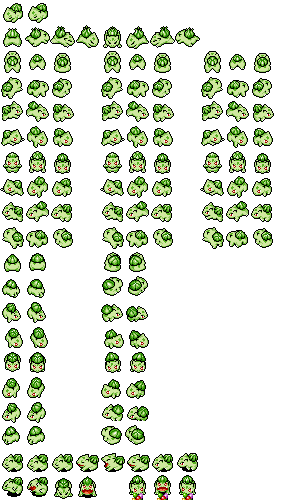
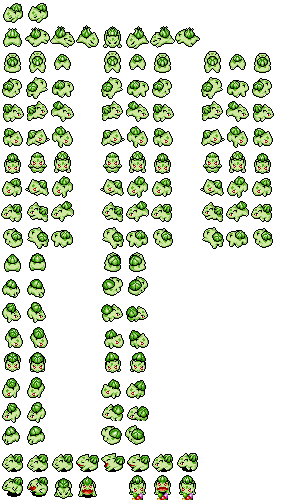
Basic Attack Animation

Changed region(s): [[0.0, 0.09, 0.24, 0.51]]

diff --git a/PMDMMOc/src/com/darkxell/client/state/dungeon/ActionSelectionState.java b/PMDMMOc/src/com/darkxell/client/state/dungeon/ActionSelectionState.java
@@ -7,71 +7,65 @@ import java.awt.Point;
 import java.awt.image.BufferedImage;
 
 import com.darkxell.client.launchable.Launcher;
+import com.darkxell.client.mechanics.animation.TravelAnimation;
 import com.darkxell.client.persistance.DungeonPersistance;
 import com.darkxell.client.resources.images.DungeonHudSpriteset;
 import com.darkxell.client.state.dungeon.DungeonState.DungeonSubState;
-import com.darkxell.client.state.dungeon.PokemonTravelState.Travel;
 import com.darkxell.client.state.menu.dungeon.DungeonMenuState;
 import com.darkxell.client.ui.Keys;
+import com.darkxell.common.move.MoveRegistry;
+import com.darkxell.common.pokemon.DungeonPokemon;
 import com.darkxell.common.util.GameUtil;
 
-public class ActionSelectionState extends DungeonSubState {
+public class ActionSelectionState extends DungeonSubState
+{
 
 	private int rotationCounter = 0;
 
-	public ActionSelectionState(DungeonState parent) {
+	public ActionSelectionState(DungeonState parent)
+	{
 		super(parent);
 	}
 
-	public boolean checkMovement() {
+	public boolean checkMovement()
+	{
 		short direction = -1;
 
-		if (Keys.isPressed(Keys.KEY_UP) && Keys.isPressed(Keys.KEY_RIGHT) && !Keys.isPressed(Keys.KEY_DOWN)
-				&& !Keys.isPressed(Keys.KEY_LEFT))
-			direction = GameUtil.NORTHEAST;
-		else if (Keys.isPressed(Keys.KEY_DOWN) && Keys.isPressed(Keys.KEY_RIGHT) && !Keys.isPressed(Keys.KEY_UP)
-				&& !Keys.isPressed(Keys.KEY_LEFT))
-			direction = GameUtil.SOUTHEAST;
-		else if (Keys.isPressed(Keys.KEY_DOWN) && Keys.isPressed(Keys.KEY_LEFT) && !Keys.isPressed(Keys.KEY_UP)
-				&& !Keys.isPressed(Keys.KEY_RIGHT))
-			direction = GameUtil.SOUTHWEST;
-		else if (Keys.isPressed(Keys.KEY_UP) && Keys.isPressed(Keys.KEY_LEFT) && !Keys.isPressed(Keys.KEY_DOWN)
-				&& !Keys.isPressed(Keys.KEY_RIGHT))
-			direction = GameUtil.NORTHWEST;
+		if (Keys.isPressed(Keys.KEY_UP) && Keys.isPressed(Keys.KEY_RIGHT) && !Keys.isPressed(Keys.KEY_DOWN) && !Keys.isPressed(Keys.KEY_LEFT)) direction = GameUtil.NORTHEAST;
+		else if (Keys.isPressed(Keys.KEY_DOWN) && Keys.isPressed(Keys.KEY_RIGHT) && !Keys.isPressed(Keys.KEY_UP) && !Keys.isPressed(Keys.KEY_LEFT)) direction = GameUtil.SOUTHEAST;
+		else if (Keys.isPressed(Keys.KEY_DOWN) && Keys.isPressed(Keys.KEY_LEFT) && !Keys.isPressed(Keys.KEY_UP) && !Keys.isPressed(Keys.KEY_RIGHT)) direction = GameUtil.SOUTHWEST;
+		else if (Keys.isPressed(Keys.KEY_UP) && Keys.isPressed(Keys.KEY_LEFT) && !Keys.isPressed(Keys.KEY_DOWN) && !Keys.isPressed(Keys.KEY_RIGHT)) direction = GameUtil.NORTHWEST;
 
-		else if (!this.parent.diagonal) {
-			if (Keys.isPressed(Keys.KEY_UP) && !Keys.isPressed(Keys.KEY_LEFT) && !Keys.isPressed(Keys.KEY_DOWN)
-					&& !Keys.isPressed(Keys.KEY_RIGHT))
-				direction = GameUtil.NORTH;
-			else if (Keys.isPressed(Keys.KEY_DOWN) && !Keys.isPressed(Keys.KEY_LEFT) && !Keys.isPressed(Keys.KEY_UP)
-					&& !Keys.isPressed(Keys.KEY_RIGHT))
-				direction = GameUtil.SOUTH;
-			else if (Keys.isPressed(Keys.KEY_LEFT) && !Keys.isPressed(Keys.KEY_UP) && !Keys.isPressed(Keys.KEY_DOWN)
-					&& !Keys.isPressed(Keys.KEY_RIGHT))
-				direction = GameUtil.WEST;
-			else if (Keys.isPressed(Keys.KEY_RIGHT) && !Keys.isPressed(Keys.KEY_LEFT) && !Keys.isPressed(Keys.KEY_DOWN)
-					&& !Keys.isPressed(Keys.KEY_UP))
-				direction = GameUtil.EAST;
+		else if (!this.parent.diagonal)
+		{
+			if (Keys.isPressed(Keys.KEY_UP) && !Keys.isPressed(Keys.KEY_LEFT) && !Keys.isPressed(Keys.KEY_DOWN) && !Keys.isPressed(Keys.KEY_RIGHT)) direction = GameUtil.NORTH;
+			else if (Keys.isPressed(Keys.KEY_DOWN) && !Keys.isPressed(Keys.KEY_LEFT) && !Keys.isPressed(Keys.KEY_UP) && !Keys.isPressed(Keys.KEY_RIGHT)) direction = GameUtil.SOUTH;
+			else if (Keys.isPressed(Keys.KEY_LEFT) && !Keys.isPressed(Keys.KEY_UP) && !Keys.isPressed(Keys.KEY_DOWN) && !Keys.isPressed(Keys.KEY_RIGHT)) direction = GameUtil.WEST;
+			else if (Keys.isPressed(Keys.KEY_RIGHT) && !Keys.isPressed(Keys.KEY_LEFT) && !Keys.isPressed(Keys.KEY_DOWN) && !Keys.isPressed(Keys.KEY_UP)) direction = GameUtil.EAST;
 		}
 
-		if (direction != -1) {
+		if (direction != -1)
+		{
 			DungeonPersistance.player.getDungeonPokemon().setFacing(direction);
-			if (!this.parent.rotating && DungeonPersistance.player.getDungeonPokemon().tryMoveTo(direction)) {
-				this.parent.setSubstate(new PokemonTravelState(this.parent,
-						new Travel(DungeonPersistance.player.getDungeonPokemon(), direction)));
+			if (!this.parent.rotating && DungeonPersistance.player.getDungeonPokemon().tryMoveTo(direction))
+			{
+				this.parent.setSubstate(new PokemonTravelState(this.parent, new DungeonPokemon[]
+				{ DungeonPersistance.player.getDungeonPokemon() }, new TravelAnimation(DungeonPersistance.player.getDungeonPokemon(), direction)));
 				return true;
 			}
 		}
 		return false;
 	}
 
-	private void drawArrow(Graphics2D g, short direction) {
+	private void drawArrow(Graphics2D g, short direction)
+	{
 		Point p = GameUtil.moveTo(0, 0, direction);
 		BufferedImage img = DungeonHudSpriteset.instance.getArrow(direction);
 		int x = this.parent.camera.x + (1 + p.x) * TILE_SIZE / 2 - img.getWidth() / 2 + this.rotationCounter / 3 * p.x;
 		int y = this.parent.camera.y + (1 + p.y) * TILE_SIZE / 2 - img.getHeight() / 2 + this.rotationCounter / 3 * p.y;
 
-		if (p.distance(0, 0) > 1) {
+		if (p.distance(0, 0) > 1)
+		{
 			x -= p.x * TILE_SIZE / 8;
 			y -= p.y * TILE_SIZE / 8;
 		}
@@ -80,37 +74,39 @@ public class ActionSelectionState extends DungeonSubState {
 	}
 
 	@Override
-	public void onKeyPressed(short key) {
-		if (key == Keys.KEY_MENU)
-			Launcher.stateManager.setState(new DungeonMenuState(this.parent));
+	public void onKeyPressed(short key)
+	{
+		if (key == Keys.KEY_MENU) Launcher.stateManager.setState(new DungeonMenuState(this.parent));
+		if (key == Keys.KEY_ATTACK) this.parent.setSubstate(new MoveAnimationState(this.parent, DungeonPersistance.player.getDungeonPokemon(),
+				MoveRegistry.ATTACK));
 	}
 
 	@Override
-	public void onKeyReleased(short key) {
-	}
+	public void onKeyReleased(short key)
+	{}
 
 	@Override
-	public void render(Graphics2D g, int width, int height) {
-		if (this.isMain()) {
-			if (this.parent.diagonal) {
+	public void render(Graphics2D g, int width, int height)
+	{
+		if (this.isMain())
+		{
+			if (this.parent.diagonal)
+			{
 				this.drawArrow(g, GameUtil.NORTHEAST);
 				this.drawArrow(g, GameUtil.SOUTHEAST);
 				this.drawArrow(g, GameUtil.SOUTHWEST);
 				this.drawArrow(g, GameUtil.NORTHWEST);
 			}
-			if (this.parent.rotating)
-				if (!this.parent.diagonal)
-					this.drawArrow(g, DungeonPersistance.player.getDungeonPokemon().facing());
+			if (this.parent.rotating) if (!this.parent.diagonal) this.drawArrow(g, DungeonPersistance.player.getDungeonPokemon().facing());
 		}
 	}
 
 	@Override
-	public void update() {
-		if (this.isMain())
-			this.checkMovement();
+	public void update()
+	{
+		if (this.isMain()) this.checkMovement();
 
 		++this.rotationCounter;
-		if (this.rotationCounter > TILE_SIZE * 2 / 3)
-			this.rotationCounter = 0;
+		if (this.rotationCounter > TILE_SIZE * 2 / 3) this.rotationCounter = 0;
 	}
 }

diff --git a/PMDMMOc/src/com/darkxell/client/mechanics/animation/moves/BasicAttackAnimation.java b/PMDMMOc/src/com/darkxell/client/mechanics/animation/moves/BasicAttackAnimation.java
@@ -1,0 +1,64 @@
+package com.darkxell.client.mechanics.animation.moves;
+
+import java.awt.Graphics2D;
+
+import com.darkxell.client.mechanics.animation.AbstractAnimation;
+import com.darkxell.client.mechanics.animation.AnimationEndListener;
+import com.darkxell.client.mechanics.animation.TravelAnimation;
+import com.darkxell.client.renderers.DungeonPokemonRenderer;
+import com.darkxell.client.resources.images.PokemonSprite;
+import com.darkxell.common.dungeon.floor.Tile;
+import com.darkxell.common.pokemon.DungeonPokemon;
+
+public class BasicAttackAnimation extends AbstractAnimation
+{
+	public static final int TOTAL = 30, CHARGE = TOTAL / 3, MOVEMENT = TOTAL / 6;
+
+	private final Tile location;
+	private PokemonSprite sprite;
+	private TravelAnimation travel;
+	public final DungeonPokemon user;
+
+	public BasicAttackAnimation(DungeonPokemon user, AnimationEndListener listener)
+	{
+		super(TOTAL, listener);
+		this.user = user;
+		this.location = this.user.tile;
+		this.sprite = DungeonPokemonRenderer.instance.getSprite(this.user);
+		this.travel = new TravelAnimation(this.user, this.user.facing());
+	}
+
+	@Override
+	public void onFinish()
+	{
+		super.onFinish();
+		this.location.setPokemon(this.user);
+	}
+
+	@Override
+	public void render(Graphics2D g, int width, int height)
+	{
+		super.render(g, width, height);
+		DungeonPokemonRenderer.instance.draw(g, this.user, this.travel.current().getX(), this.travel.current().getY());
+	}
+
+	@Override
+	public void start()
+	{
+		super.start();
+		this.location.setPokemon(null);
+		this.sprite.setState(PokemonSprite.STATE_ATTACK);
+	}
+
+	@Override
+	public void update()
+	{
+		super.update();
+		float completion = this.tick() * 1f;
+		if (this.tick() >= CHARGE && this.tick() <= CHARGE + MOVEMENT) completion -= CHARGE;
+		else if (this.tick() >= CHARGE * 2 + MOVEMENT && this.tick() <= TOTAL) completion = 30 - completion;
+		else completion = -1;
+
+		if (completion != -1) this.travel.update(completion * 0.75f / MOVEMENT);
+	}
+}

diff --git a/PMDMMOc/src/com/darkxell/client/state/dungeon/MoveAnimationState.java b/PMDMMOc/src/com/darkxell/client/state/dungeon/MoveAnimationState.java
@@ -1,0 +1,65 @@
+package com.darkxell.client.state.dungeon;
+
+import java.awt.Graphics2D;
+
+import com.darkxell.client.mechanics.animation.AbstractAnimation;
+import com.darkxell.client.mechanics.animation.AnimationEndListener;
+import com.darkxell.client.mechanics.animation.MoveAnimations;
+import com.darkxell.client.persistance.DungeonPersistance;
+import com.darkxell.client.state.dungeon.DungeonState.DungeonSubState;
+import com.darkxell.common.event.MoveUseEvent;
+import com.darkxell.common.move.Move;
+import com.darkxell.common.move.MoveRegistry;
+import com.darkxell.common.pokemon.DungeonPokemon;
+import com.darkxell.common.util.Message;
+
+public class MoveAnimationState extends DungeonSubState implements AnimationEndListener
+{
+
+	public final AbstractAnimation animation;
+	public final Move move;
+	public final DungeonPokemon user;
+
+	public MoveAnimationState(DungeonState parent, DungeonPokemon user, Move move)
+	{
+		super(parent);
+		this.move = move;
+		this.user = user;
+		this.animation = MoveAnimations.createAnimation(this, user, move);
+	}
+
+	@Override
+	public void onAnimationEnd(AbstractAnimation animation)
+	{
+		MoveUseEvent e = this.move.use(this.user, DungeonPersistance.floor);
+		if (this.move != MoveRegistry.ATTACK) this.parent.logger.showMessage(new Message("move.used").addReplacement("<pokemon>",
+				this.user.pokemon.getNickname()).addReplacement("<move>", this.move.name()));
+		this.parent.setSubstate(this.parent.actionSelectionState);
+	}
+
+	@Override
+	public void onKeyPressed(short key)
+	{}
+
+	@Override
+	public void onKeyReleased(short key)
+	{}
+
+	@Override
+	public void onStart()
+	{
+		super.onStart();
+		this.animation.start();
+	}
+
+	@Override
+	public void render(Graphics2D g, int width, int height)
+	{
+		this.animation.render(g, width, height);
+	}
+
+	@Override
+	public void update()
+	{}
+
+}

diff --git a/PMDMMO-common/src/com/darkxell/common/move/MoveRegistry.java b/PMDMMO-common/src/com/darkxell/common/move/MoveRegistry.java
@@ -12,6 +12,7 @@ import com.darkxell.common.util.XMLUtils;
 /** Holds all Moves. */
 public final class MoveRegistry
 {
+	public static final BasicAttack ATTACK = new BasicAttack();
 
 	private static HashMap<Integer, Move> moves = new HashMap<Integer, Move>();
 
@@ -45,6 +46,8 @@ public final class MoveRegistry
 			{
 				e1.printStackTrace();
 			}
+
+		moves.put(ATTACK.id, ATTACK);
 	}
 
 	/** Saves this Registry for the Client. */
@@ -52,7 +55,7 @@ public final class MoveRegistry
 	{
 		Element xml = new Element("moves");
 		for (Move move : moves.values())
-			xml.addContent(move.toXML());
+			if (move != ATTACK) xml.addContent(move.toXML());
 		XMLUtils.saveFile(new File("resources/data/moves.xml"), xml);
 	}
 

diff --git a/PMDMMOc/src/com/darkxell/client/mechanics/animation/MoveAnimations.java b/PMDMMOc/src/com/darkxell/client/mechanics/animation/MoveAnimations.java
@@ -1,0 +1,17 @@
+package com.darkxell.client.mechanics.animation;
+
+import com.darkxell.client.mechanics.animation.moves.BasicAttackAnimation;
+import com.darkxell.common.move.Move;
+import com.darkxell.common.pokemon.DungeonPokemon;
+
+public class MoveAnimations
+{
+
+	public static AbstractAnimation createAnimation(AnimationEndListener listener, DungeonPokemon user, Move move)
+	{
+
+		// By default, return the basic attack animation
+
+		return new BasicAttackAnimation(user, listener);
+	}
+}

diff --git a/PMDMMOc/src/com/darkxell/client/mechanics/animation/AbstractAnimation.java b/PMDMMOc/src/com/darkxell/client/mechanics/animation/AbstractAnimation.java
@@ -16,6 +16,12 @@ public class AbstractAnimation
 		this.listener = listener;
 	}
 
+	/** @return From 0 to 1, how far this Animation is. */
+	public float completion()
+	{
+		return this.tick * 1f / this.duration;
+	}
+
 	/** @return True if this Animation has ended. */
 	public boolean isOver()
 	{

diff --git a/PMDMMO-common/src/com/darkxell/common/move/BasicAttack.java b/PMDMMO-common/src/com/darkxell/common/move/BasicAttack.java
@@ -1,0 +1,12 @@
+package com.darkxell.common.move;
+
+
+public class BasicAttack extends Move
+{
+
+	public BasicAttack()
+	{
+		super(0, null, 0, Move.PHYSICAL, 0, 1, 100, Move.FRONT, 0, 0, true);
+	}
+
+}
